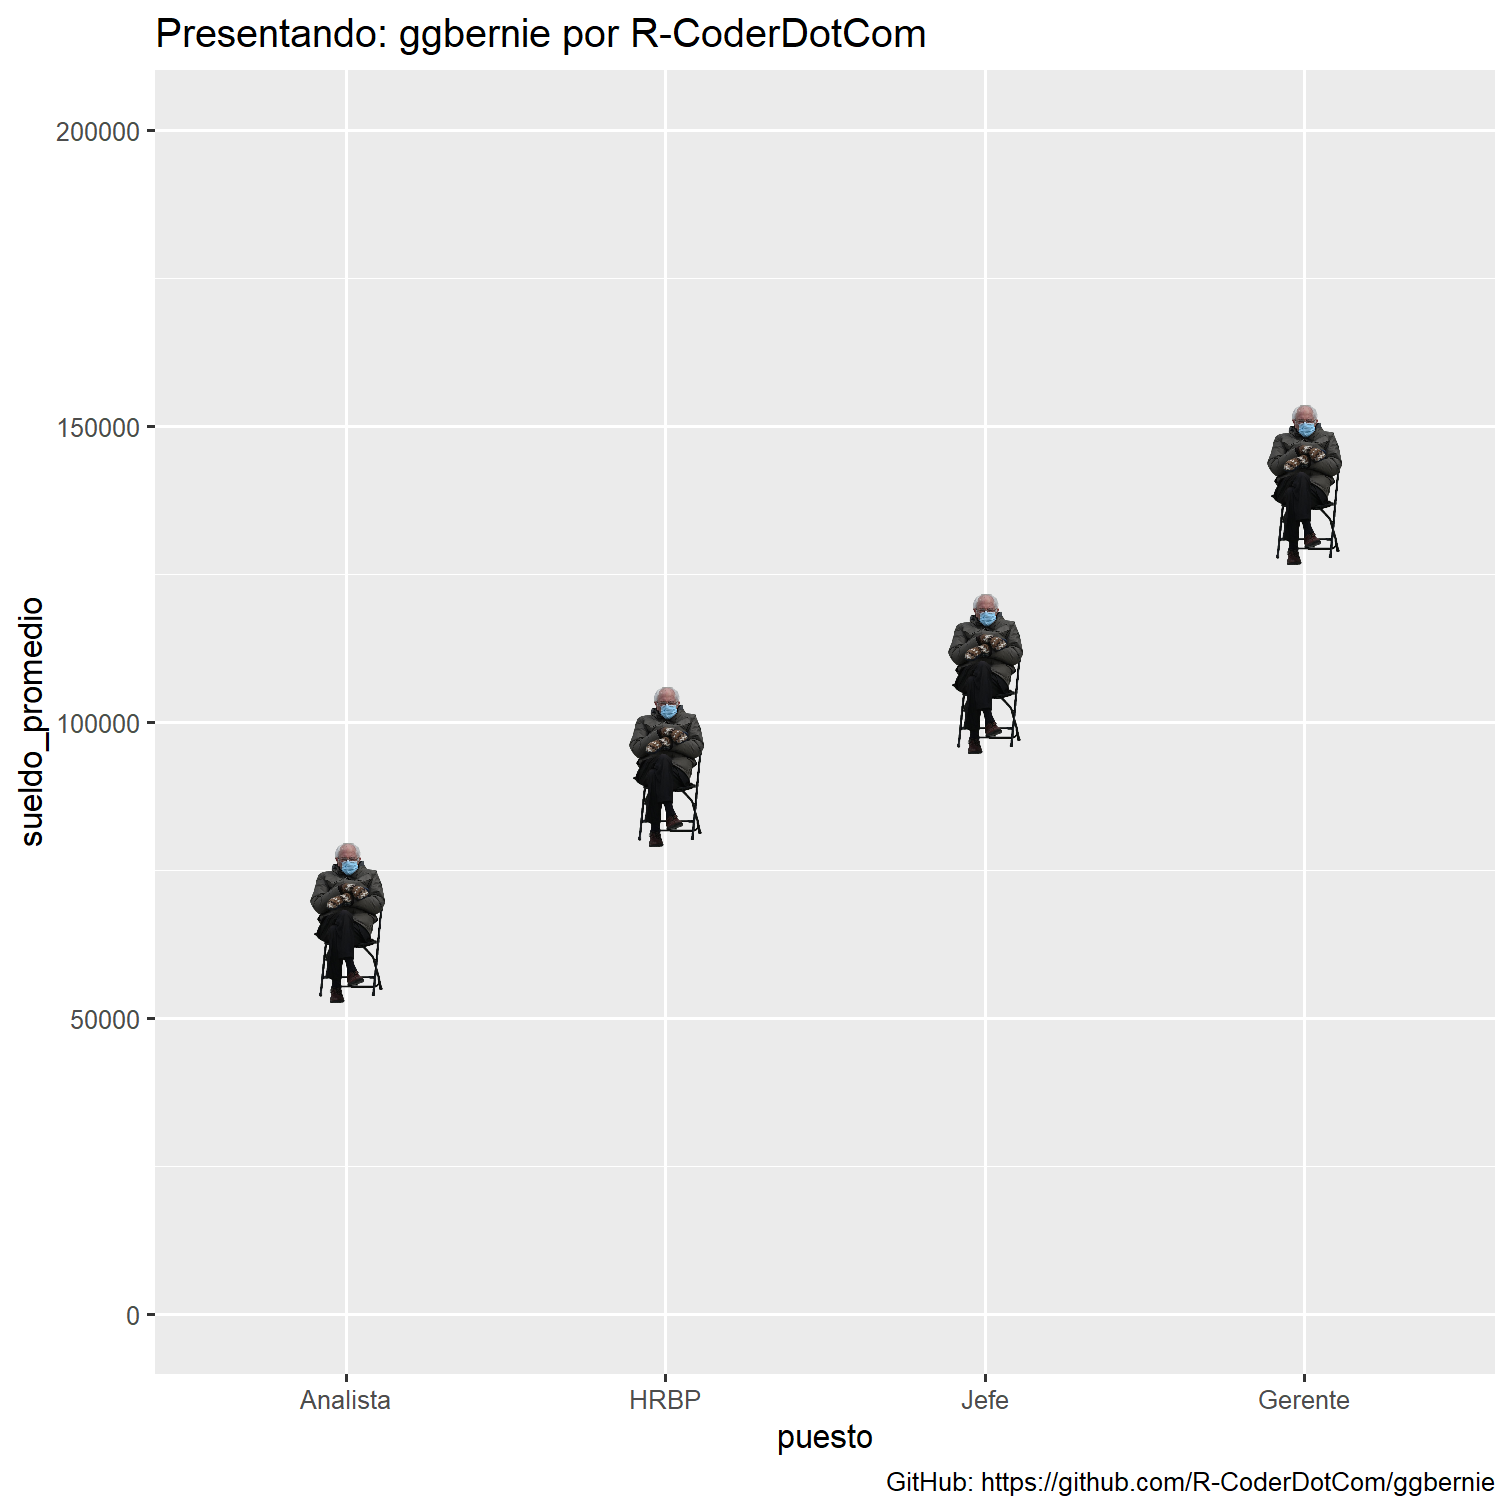
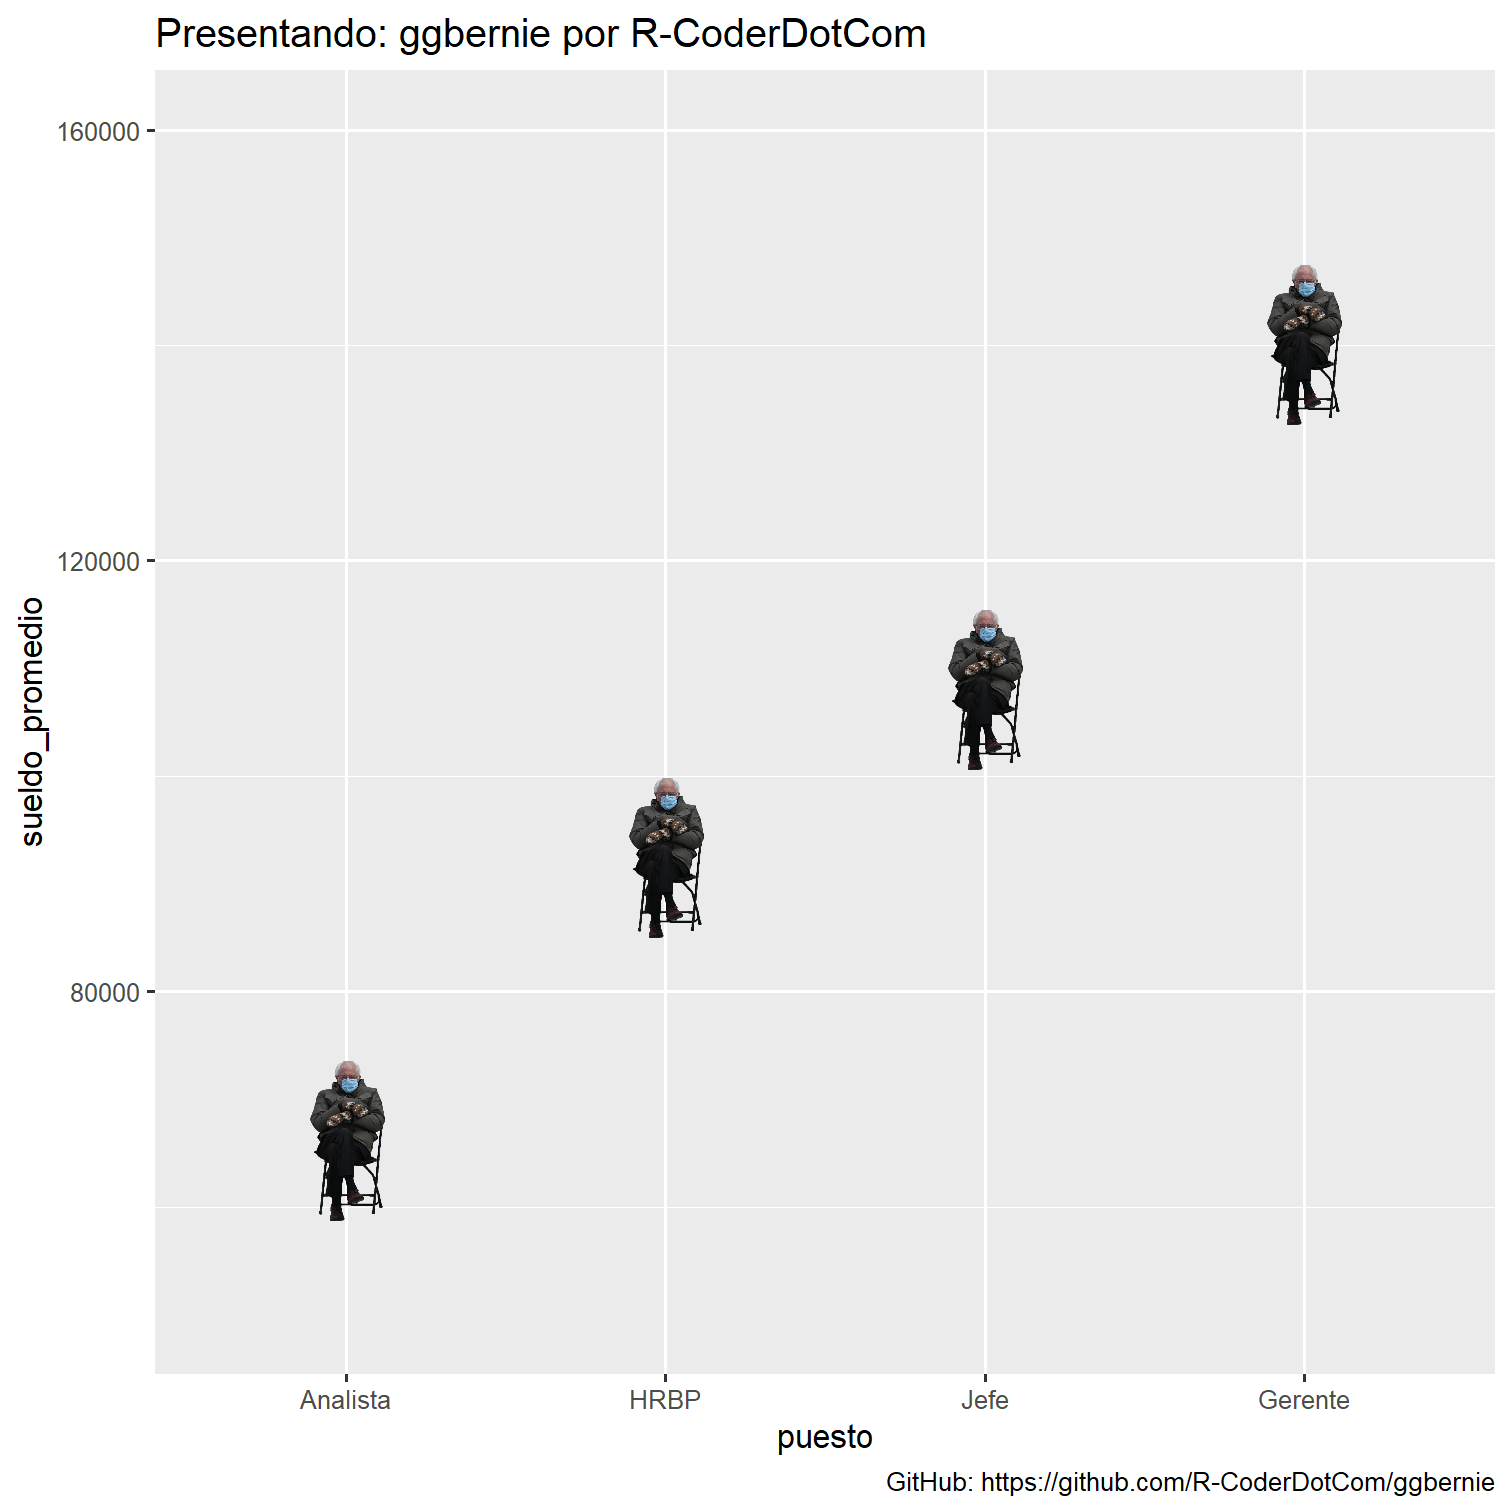
Listo, no jodo más, esto es lo último que retoco de la presentación

diff --git a/index.html b/index.html
@@ -57,7 +57,7 @@ background-size: cover
 * ### 🤓 HR Nerd
 * 💪 Licenciado en Relaciones del Trabajo con formación en Data Mining
 * 💹 SME People Analytics at [Data IQ](https://dataiq.com.ar/)
-* 👨🏫 Profesor de People Analytics en ITBA
+* 👩🏫 Profesor de People Analytics en ITBA
 * ✈ Fundador de [Data 4HR](https://data-4hr.com/)
 * 🍷 Fundador del [Club de R para RRHH](https://linktr.ee/r4hrclub)
 * 👑 Meme Manager en varias comunidades
@@ -417,7 +417,7 @@ mosaic1 %&gt;% build_mosaic()
 
 ]
 ---
-## Hagamos algo más divertido
+## Hagamos algo más delirante
 
 .pull-left[
 &lt;img src="index_files/figure-html/unnamed-chunk-5-1.png" width="504" /&gt;
@@ -433,7 +433,7 @@ ggplot(d1) +
 *             bernie = "sitting") +
   labs(title = "Presentando: ggbernie por R-CoderDotCom",
        caption = "GitHub: https://github.com/R-CoderDotCom/ggbernie")+
-  scale_y_continuous(limits = c(0, 200000))
+  scale_y_continuous(limits = c(50000, 160000))
 ```
 
 ---

diff --git a/README.md b/README.md
@@ -21,5 +21,5 @@ Los cheatsheets (machete, cola, trencito, copiatín, plage, batería, torpedo, c
 
 Podes sumarte a nuestras canales del Club de R para RRHH:
 * [Slack](https://join.slack.com/t/r4hr/shared_invite/zt-ocriyx5e-nqXuwWeDyOKm2ICUJjhu6g)
-* [Discord](https://discord.gg/qj4H25sd)
+* [Discord](https://discord.gg/KvreTTJz)
 * [Redes Sociales](https://linktr.ee/r4hrclub)
